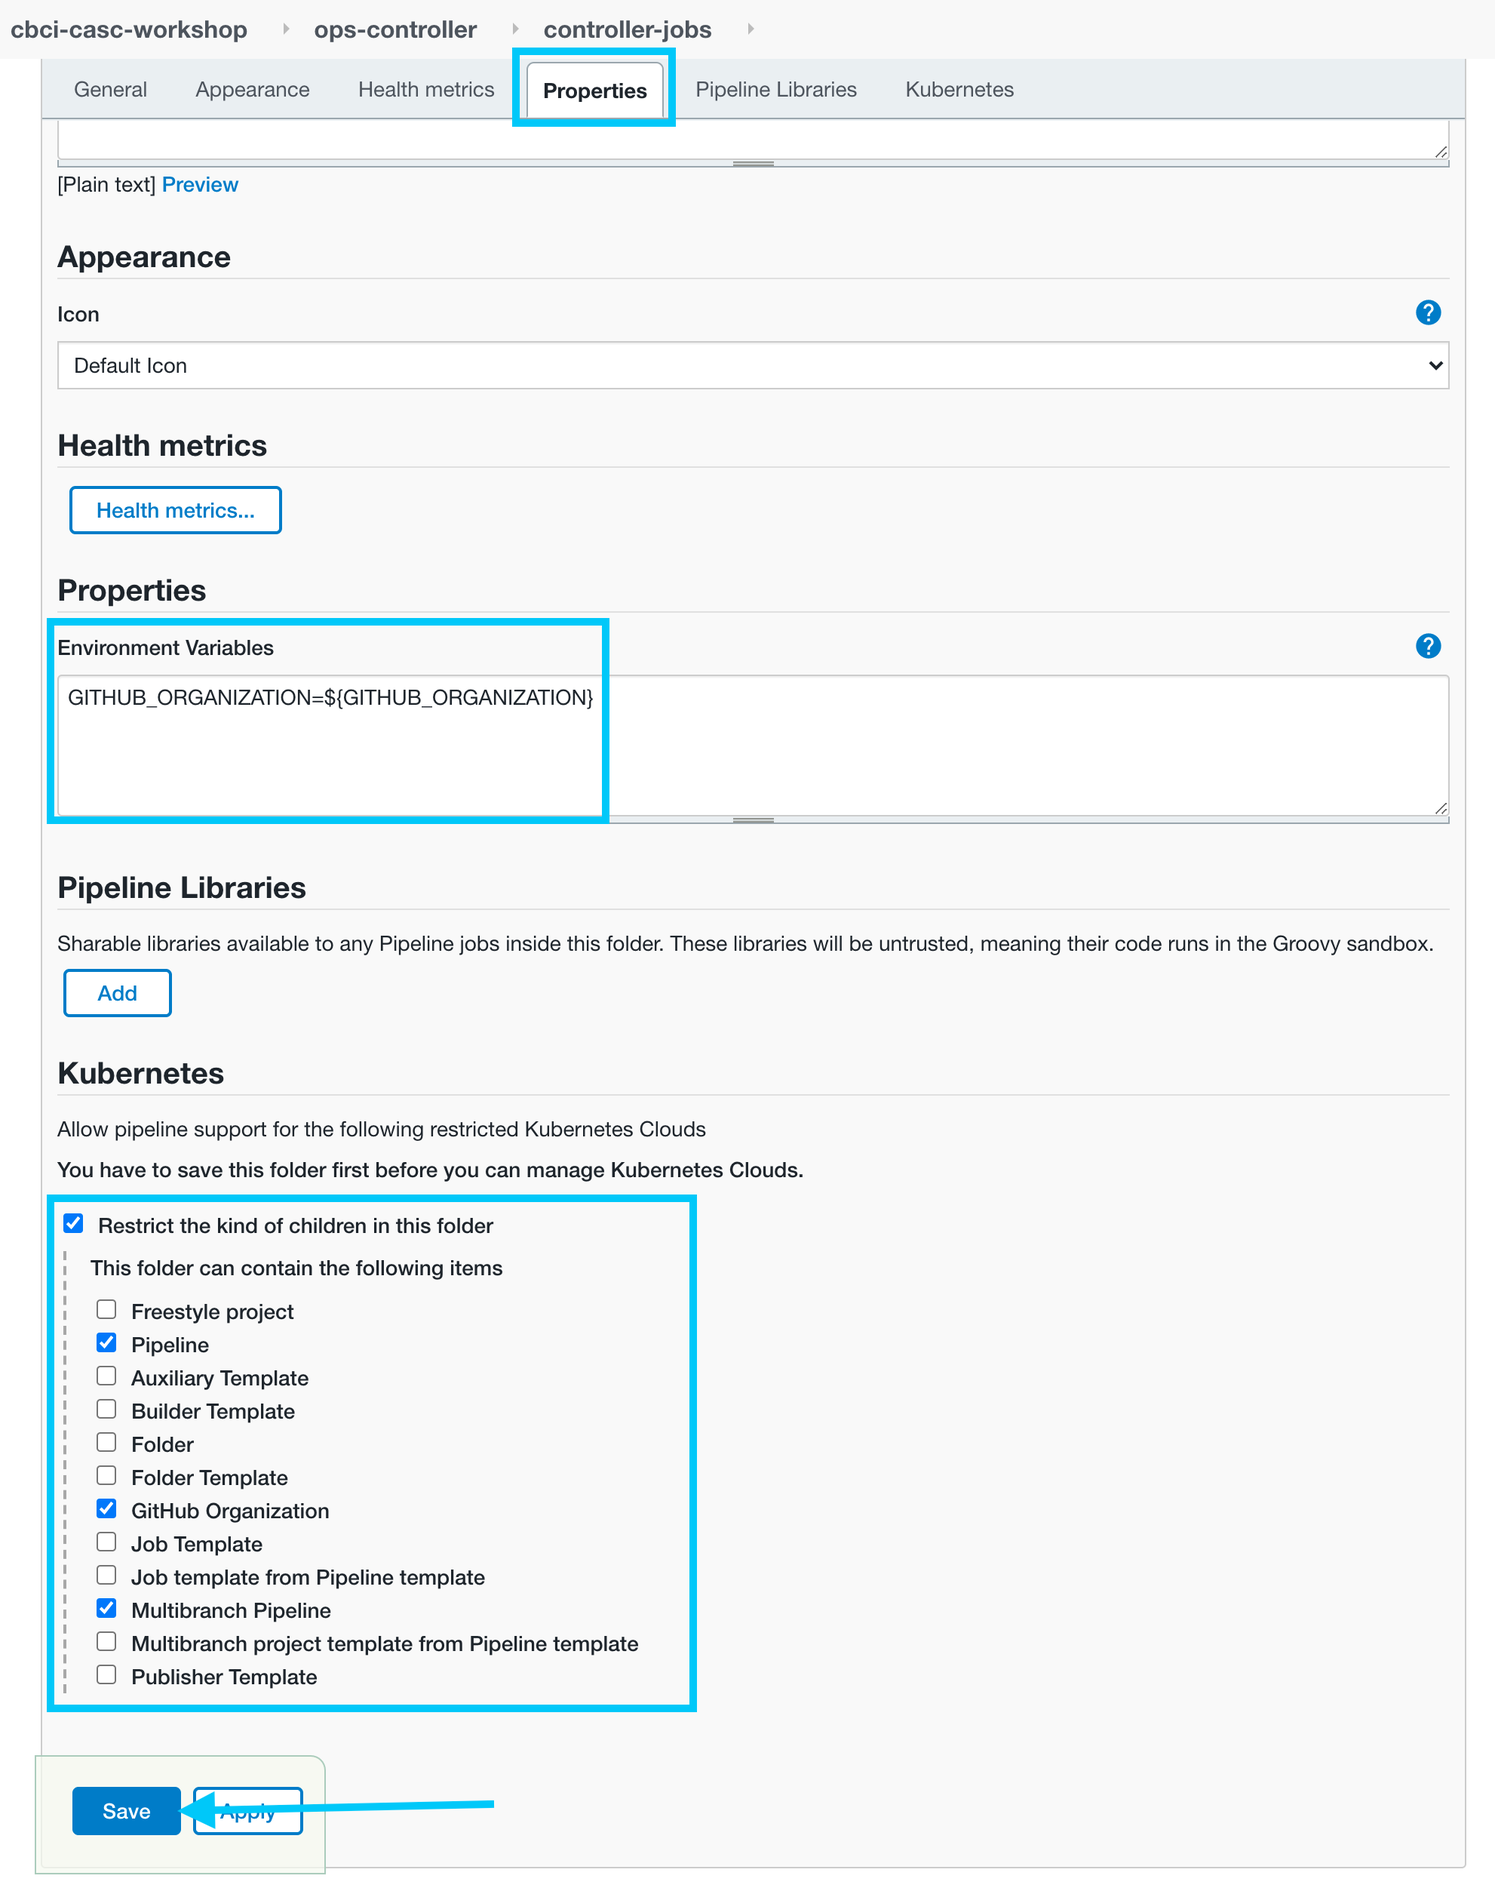
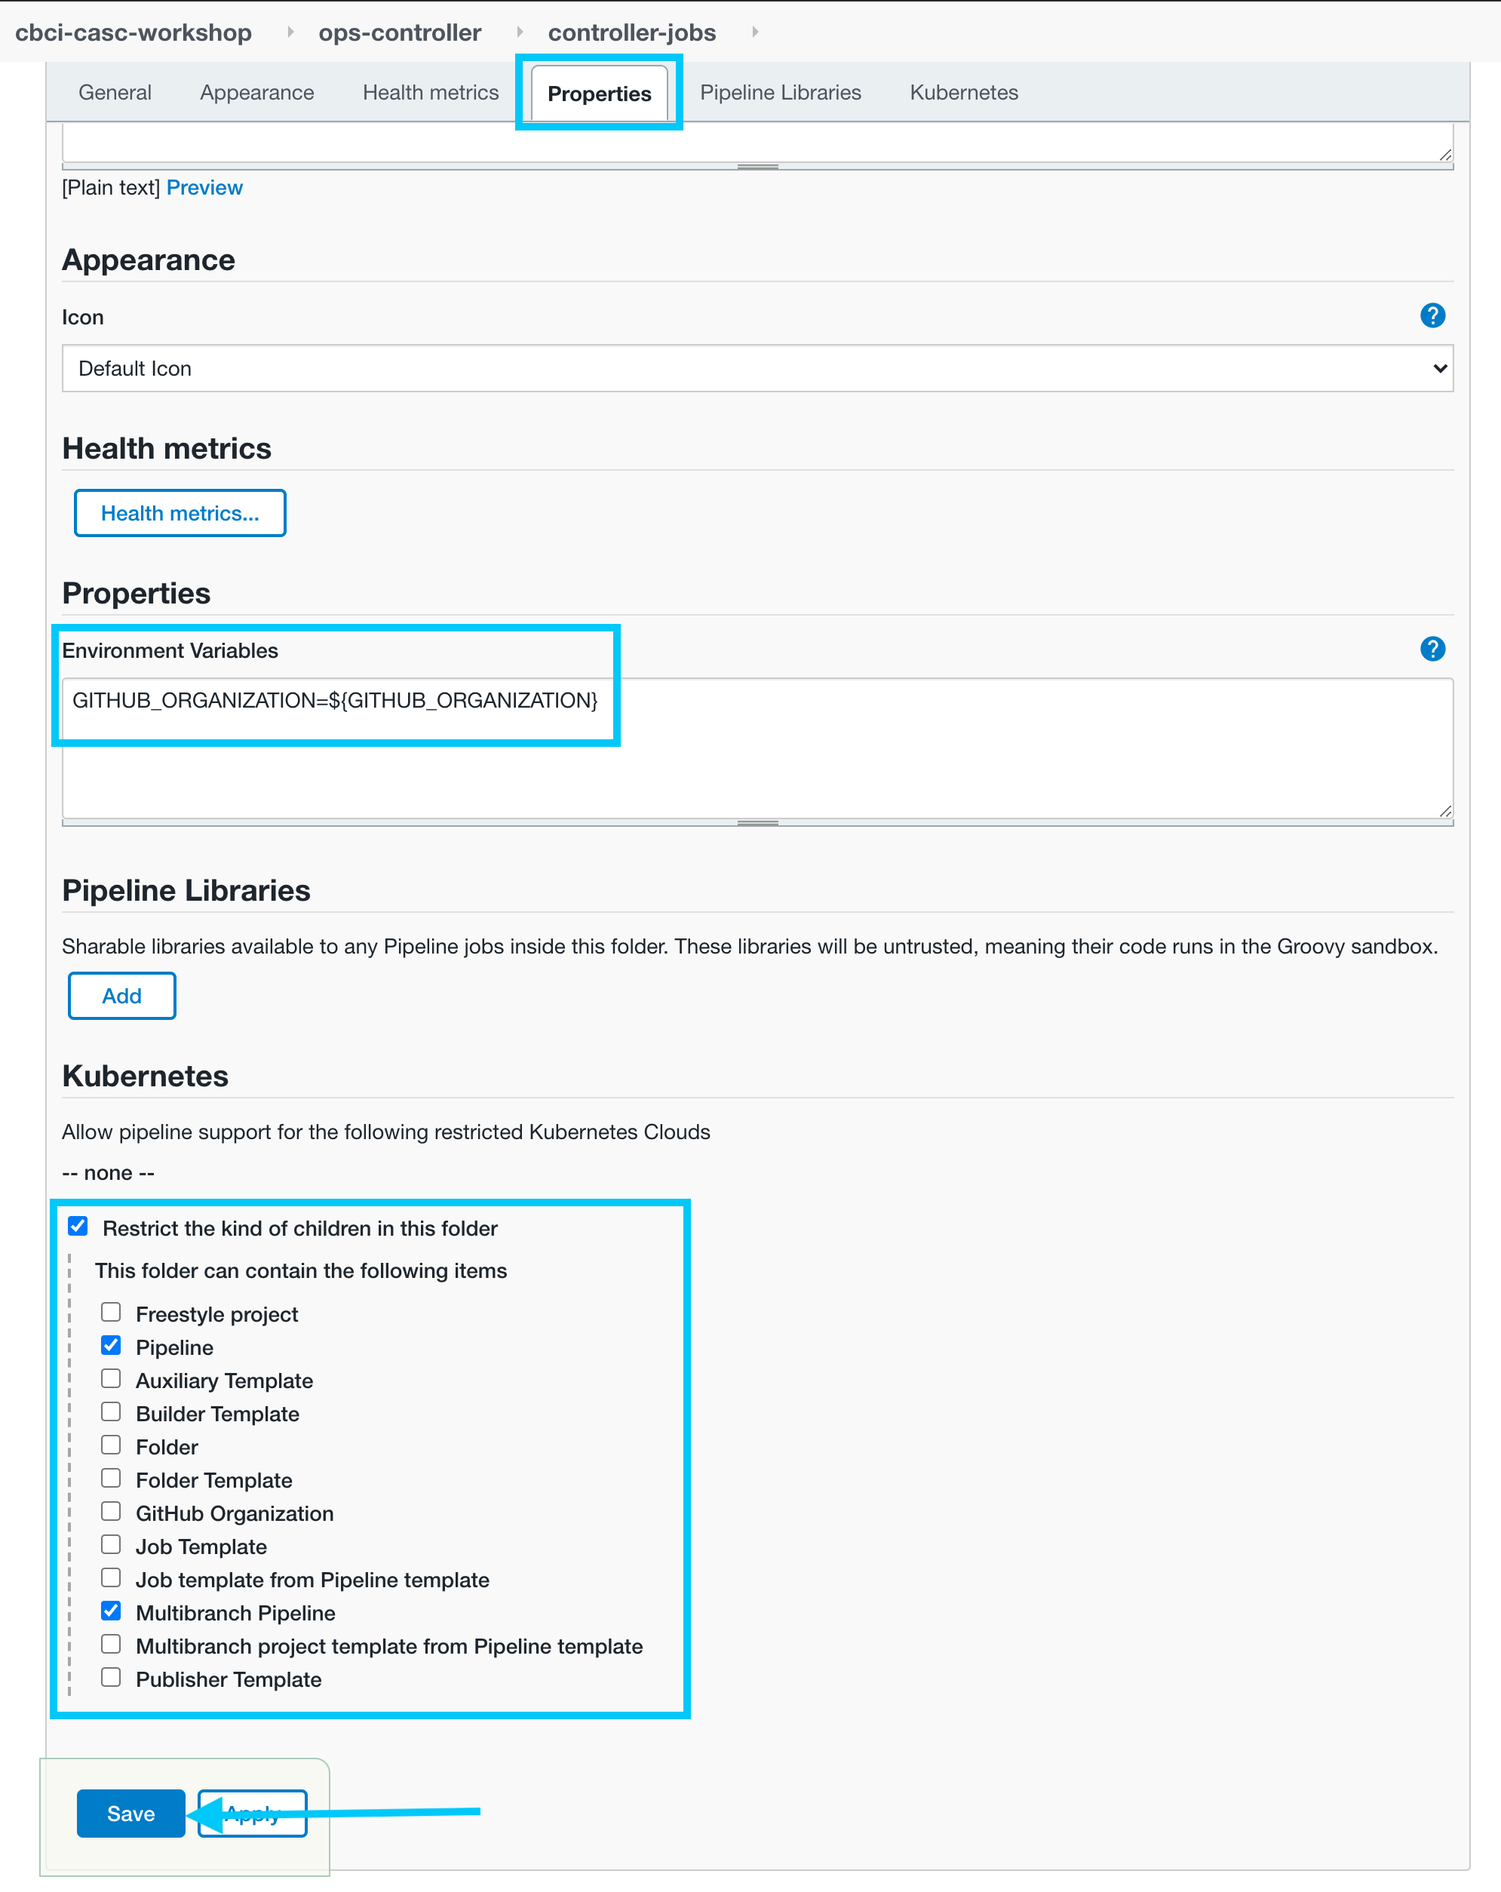
misc updates for casc workshop

diff --git a/labs/cloudbees-ci-casc/content/labs/managing-job-config.md b/labs/cloudbees-ci-casc/content/labs/managing-job-config.md
@@ -4,7 +4,7 @@ chapter: false
 weight: 4
 --- 
 
-In addition to folders, the CloudBees CI CasC provides support for managing the configuration of certain Jenkins job types to include:
+In addition to folders, the CloudBees CI CasC provides support for [managing the configuration of certain Jenkins job types](https://docs.cloudbees.com/docs/cloudbees-ci/latest/casc-controller/items#_supported_items_using_casc) (or items) to include:
 
 - Freestyle jobs
 - Pipeline jobs
@@ -12,4 +12,175 @@ In addition to folders, the CloudBees CI CasC provides support for managing the 
 - GitHub Organization folders
 - Bitbucket Team/Project folders
 
-In this lab we will export the configuration for the GitHub Organization Folder project you created in the previous lab and then add it to your configuration bundle.
+In this lab we will export the configuration for the GitHub Organization Folder project you created in the previous lab and then add it to your configuration bundle with some minor modifications to including removing redundant default fields and updating to only run for the `main` branch.
+
+## Adding Job Configuration to the Configuration Bundle
+
+1. Navigate back to the top-level of your Ops controller and you should see the new **controller-jobs** folder. Click on the **Manage Jenkins** link in the left menu. ![Folder created](folder-created.png?width=50pc) 
+2. On the **Manage Jenkins** page click on **CloudBees Configuration as Code bundle** under the **System Configuration** section. ![CloudBees CasC link](cloudbees-casc-link.png?width=50pc) 
+3. Next click on the *visualize* link for the `items.yaml` **Filename**. ![Items visualize link](items-visualize-link.png?width=50pc) 
+4. A new browser page will open in a new tab or window with the auto-generated `items.yaml` with content very similar to the following:
+
+```yaml
+removeStrategy:
+  rbac: SYNC
+  items: NONE
+items:
+- kind: folder
+  displayName: controller-jobs
+  name: controller-jobs
+  description: ''
+  items:
+  - orphanedItemStrategy:
+      defaultOrphanedItemStrategy:
+        pruneDeadBranches: true
+        daysToKeep: -1
+        numToKeep: -1
+    SCMSources:
+    - github:
+        traits:
+        - gitHubBranchDiscovery:
+            strategyId: 1
+        - gitHubPullRequestDiscovery:
+            strategyId: 1
+        - gitHubForkDiscovery:
+            trust:
+              gitHubTrustPermissions: {}
+            strategyId: 1
+        repoOwner: cbci-casc-workshop
+        credentialsId: cloudbees-ci-casc-workshop-github-app
+        id: org.jenkinsci.plugins.github_branch_source.GitHubSCMNavigator::https://api.github.com::cbci-casc-workshop::ops-controller
+        repository: ops-controller
+        configuredByUrl: false
+        repositoryUrl: https://github.com/cbci-casc-workshop/ops-controller
+    kind: organizationFolder
+    displayName: cbci-casc-workshop
+    name: cbci-casc-workshop
+    description: ''
+    navigators:
+    - github:
+        traits:
+        - gitHubBranchDiscovery:
+            strategyId: 1
+        - gitHubPullRequestDiscovery:
+            strategyId: 1
+        - gitHubForkDiscovery:
+            trust:
+              gitHubTrustPermissions: {}
+            strategyId: 1
+        repoOwner: cbci-casc-workshop
+        credentialsId: cloudbees-ci-casc-workshop-github-app
+    projectFactories:
+    - customMultiBranchProjectFactory:
+        factory:
+          customBranchProjectFactory:
+            marker: bundle.yaml
+            definition:
+              cpsScmFlowDefinition:
+                scriptPath: controller-casc-automation
+                scm:
+                  gitSCM:
+                    userRemoteConfigs:
+                    - userRemoteConfig:
+                        credentialsId: cloudbees-ci-casc-workshop-github-app
+                        url: https://github.com/cbci-casc-workshop/ops-controller.git
+                    branches:
+                    - branchSpec:
+                        name: '*/main'
+                lightweight: true
+    trigger:
+      periodicFolderTrigger:
+        interval: 1d
+    strategy:
+      allBranchesSame: {}
+    properties:
+    - organizationChildHealthMetricsProperty:
+        templates:
+        - worstChildHealthMetric:
+            recursive: true
+        - averageChildHealthMetric: {}
+        - jobStatusHealthMetric:
+            unstable: true
+            countVirginJobs: false
+            failure: true
+            success: true
+            unbuilt: true
+        - projectEnabledHealthMetric: {}
+    - organizationChildOrphanedItemsProperty:
+        strategy:
+          inherit: {}
+    - organizationChildTriggersProperty:
+        templates:
+        - periodicFolderTrigger:
+            interval: 1d
+    - {}
+    - kubernetesFolderProperty: {}
+    - noTriggerOrganizationFolderProperty:
+        branches: .*
+  properties:
+  - envVars:
+      vars:
+        GITHUB_ORGANIZATION: ${GITHUB_ORGANIZATION}
+  - kubernetesFolderProperty: {}
+  - itemRestrictions:
+      allowedTypes:
+      - org.jenkinsci.plugins.workflow.job.WorkflowJob
+      - jenkins.branch.OrganizationFolder
+      - org.jenkinsci.plugins.workflow.multibranch.WorkflowMultiBranchProject
+      - jenkins.branch.OrganizationFolder.org.jenkinsci.plugins.github_branch_source.GitHubSCMNavigator
+      filter: true
+```
+
+5. Rather than copy it as is, we have provided a minimized version that eliminates unneeded configuration and modifies the GitHub Organization Folder to only run for the `main` branch of a repository:
+
+```yaml
+removeStrategy:
+  rbac: SYNC
+  items: NONE
+items:
+- kind: folder
+  displayName: controller-jobs
+  name: controller-jobs
+  properties:
+  - envVars:
+      vars:
+        GITHUB_ORGANIZATION: ${GITHUB_ORGANIZATION}
+  - itemRestrictions:
+      allowedTypes:
+      - org.jenkinsci.plugins.workflow.job.WorkflowJob
+      - org.jenkinsci.plugins.workflow.multibranch.WorkflowMultiBranchProject
+      - jenkins.branch.OrganizationFolder.org.jenkinsci.plugins.github_branch_source.GitHubSCMNavigator
+      - jenkins.branch.OrganizationFolder
+      filter: true
+  items:
+  - kind: organizationFolder
+    name: cbci-casc-workshop
+    navigators:
+    - github:
+        traits:
+        - headWildcardFilter:
+            includes: main
+        repoOwner: cbci-casc-workshop
+        credentialsId: cloudbees-ci-casc-workshop-github-app
+    projectFactories:
+    - customMultiBranchProjectFactory:
+        factory:
+          customBranchProjectFactory:
+            marker: bundle.yaml
+            definition:
+              cpsScmFlowDefinition:
+                scriptPath: controller-casc-automation
+                scm:
+                  gitSCM:
+                    userRemoteConfigs:
+                    - userRemoteConfig:
+                        credentialsId: cloudbees-ci-casc-workshop-github-app
+                        url: https://github.com/cbci-casc-workshop/ops-controller.git
+                    branches:
+                    - branchSpec:
+                        name: '*/main'
+                lightweight: true
+```
+
+6. Copy the provided `items.yaml` and navigate to the top level of your copy of the `ops-controller` repository in your workshop GitHub Organization.
+7. 

diff --git a/labs/cloudbees-ci-casc/content/labs/advanced-bundle-composition.md b/labs/cloudbees-ci-casc/content/labs/advanced-bundle-composition.md
@@ -174,7 +174,11 @@ notificationConfiguration:
     - Enforcing the use of the CloudBees Assurance Plugins.
     - Enabling [controller hibernation](https://docs.cloudbees.com/docs/cloudbees-ci/latest/cloud-admin-guide/managing-masters#_hibernation_in_managed_masters) to reduce infrastructure costs - controllers will only run when they need to.
     - Enabling [Cross Team Collaboration](https://docs.cloudbees.com/docs/admin-resources/latest/pipelines/cross-team-collaboration) notifications to allow controllers to send and receive pipeline events.
->**NOTE:** In some cases we are including configuration that is enabled by default - like enabling the CloudBees SCM Reporting notifications. The reason for including such configuration is that when included, it cannot be overridden at the individual controller level as we will learn below.
+
+{{% notice note %}}
+In some cases we are including configuration that is enabled by default - like enabling the CloudBees SCM Reporting notifications. The reason for including such configuration is that when included, it cannot be overridden at the individual controller level as we will learn below.
+{{% /notice %}}
+
 4. Next, let's review the `plugins.yaml` that will provide a base set of plugins for all the controllers in our CloudBees CI cluster:
 ```yaml
 plugins:
@@ -273,8 +277,10 @@ items:
 23. On the **CloudBees Configuration as Code bundle** click on the **Bundle update** tab and you should see that there is a bundle update available. ![CasC bundle update](casc-bundle-update.png?width=50pc)
 24. Click on the **Reload Configuration** button and then on the next screen click the **Yes** button to apply the bundle update. ![CasC bundle apply](casc-bundle-apply.png?width=50pc)
 25. After your Ops Controller has finished restarting navigate back to the **CloudBees Configuration as Code bundle** configuration page and click on the **Original Bundle** tab. Notice that there are now three `jcasc` files: `jcasc/base.jenkins.yaml`, `jcasc/cbci-casc-workshop-ops-controller.credentials.yaml` and `jcasc/cbci-casc-workshop-ops-controller.jenkins.yaml`. CloudBees CI Configuration as Code (CasC) for Controllers automatically renames all JCasC files by prefixing them with the bundle id and placing them in a `jcasc` directory. However, in the case of the `plugins.yaml`, multiple files are merged into one. Also note that the `items` files is placed in an `items` folder and also prefixed with the bundle id. ![Original Bundle](original-bundle-base.png?width=50pc) 
+ 
 
->**NOTE:** Catalog file types, in this case the `plugin-catalog.yaml` file, are not merged and will be overridden by the last catalog file added. So if we hadn't removed the `catalog` entry from your Ops controller's `bundle.yaml` file (and not deleted the `plugin-catalog.yaml`) then it would have overridden the `plugin-catalog.yaml` provided by the `base` (parent) bundle. One way you could enforce only allowing the `catalog` to be defined at the parent level would be to add a pipeline `step` to the `controller-casc-automation` job that removes the `catalog` section from the controller's `bundle.yaml`. Here is an [example using yq version 4](https://mikefarah.gitbook.io/yq/operators/delete#delete-matching-entries):
+{{% notice tip %}}
+Catalog file types, in this case the `plugin-catalog.yaml` file, are not merged and will be overridden by the last catalog file added. So if we hadn't removed the `catalog` entry from your Ops controller's `bundle.yaml` file (and not deleted the `plugin-catalog.yaml`) then it would have overridden the `plugin-catalog.yaml` provided by the `base` (parent) bundle. One way you could enforce only allowing the `catalog` to be defined at the parent level would be to add a pipeline `step` to the `controller-casc-automation` job that removes the `catalog` section from the controller's `bundle.yaml`. Here is an [example using yq version 4](https://mikefarah.gitbook.io/yq/operators/delete#delete-matching-entries):
 ```groovy
 ...
 container('yq') {
@@ -282,3 +288,4 @@ container('yq') {
 }
 ...
 ```
+{{% /notice %}}

diff --git a/labs/cloudbees-ci-casc/content/labs/bundle-management.md b/labs/cloudbees-ci-casc/content/labs/bundle-management.md
@@ -6,7 +6,7 @@ weight: 3
 
 CloudBees CI configuration bundles are centrally managed and stored in the `jcasc-bundles-store` directory in the Operations Center Jenkins home directory. In order to make a bundle available for a controller or to update an existing bundle the bundle files must be copied to the `jcasc-bundles-store` directory.
 
-{{% notice note %}}
+{{% notice tip %}}
 While Operations Center simplifies the management of bundles, it is possible to configure a controller with a bundle without Operations Center using the `-Dcore.casc.config.bundle=/path/to/casc-bundle` Java system property.
 {{% /notice %}}
 
@@ -92,6 +92,6 @@ If you navigate to your GitHub `ops-controller` repository in your workshop GitH
 19. Click on the **Reload Configuration** button and then on the next screen click the **Yes** button to apply the bundle update. ![CasC bundle apply](casc-bundle-apply.png?width=50pc)
 20. After the updated configuration bundle is finished being applied return to the top level of your Ops controller and you will see that the **configuration-automation** folder has been added back. ![CasC bundle updated](casc-bundle-updated.png?width=50pc)
 21. Besides being an example of configuration bundle `items` configuration, another reason we created a folder is because it is considered a best practice to keep all of your Jenkins jobs organized with folders - some of the advantages of folders include fine grained access control and credentials, folder specific environment variables, the ability to restrict job types that can be created and easily moving or copying jobs across controllers or to other folders. Therefore we will move your GitHub Organization project into the **controller-automation** folder. To do so click on your GitHub Organization project and then click the **Move/Copy/Promote** link in the left menu. ![Move multibranch job](move-github-org-job.png?width=50pc)
-22. On the **Move/Copy/Promote** place your mouse cursor in the **Destination** select box next to **ops-controller**, select **controller-automation** from the drop down and then click the **Move** button. ![Select folder and move](select-folder-move.png?width=50pc)
-23. Once the move has completed successfully click on the **Close** button. ![Move close](move-close.png?width=50pc)
-
+ 22. On the **Move/Copy/Promote** place your mouse cursor in the **Destination** select box next to **ops-controller**, select **controller-automation** from the drop down and then click the **Move** button. ![Select folder and move](select-folder-move.png?width=50pc)
+ 23. Once the move has completed successfully click on the **Close** button. ![Move close](move-close.png?width=50pc)
+ 

diff --git a/labs/cloudbees-ci-casc/content/labs/bundle-composition.md b/labs/cloudbees-ci-casc/content/labs/bundle-composition.md
@@ -149,7 +149,7 @@ As you can see from the composition overview above, the YAML in the different co
 6. At the top level of your Ops controller, click on **Create a job** link.  ![Create a job](create-job-link.png?width=50pc) 
 7. On the item creation screen, enter ***controller-jobs*** as the name, select **Folder** as the type and then click the **OK** button. ![Create folder](create-folder.png?width=50pc) 
 8. On the next screen click on the **Properties** tab, then enter `GITHUB_ORGANIZATION=${GITHUB_ORGANIZATION}` in the **Environment Variables** text area, 
-9. Next, click on the **Restrict the kind of children in this folder**, then check the **Pipeline**, **GitHub Organization** and **Multibranch Pipeline** items; and then click the **Save** button. ![Configure folder](configure-folder.png?width=50pc) 
+9. Next, click on the **Restrict the kind of children in this folder**, then check the **Pipeline** and **Multibranch Pipeline** items; and then click the **Save** button. ![Configure folder](configure-folder.png?width=50pc) 
 10. Navigate back to the top-level of your Ops controller and you should see the new **controller-jobs** folder. Click on the **Manage Jenkins** link in the left menu. ![Folder created](folder-created.png?width=50pc) 
 11. On the **Manage Jenkins** page click on **CloudBees Configuration as Code bundle** under the **System Configuration** section. ![CloudBees CasC link](cloudbees-casc-link.png?width=50pc) 
 12. Next, on the **CloudBees Configuration as Code bundle** page under the **Current configuration** tab, click on the *visualize* link for the `plugin-catalog.yaml` **Filename**. A [plugin catalog](https://docs.cloudbees.com/docs/admin-resources/latest/plugin-management/configuring-plugin-catalogs) is used to include plugins that are not in the CloudBees Assurance Program (CAP); tested and used by your software delivery workloads. Since the **Pipeline Utility Steps** is not in CAP we must create a plugin catalog that includes that plugin so we may install it on a controller. ![Plugin Catalog visualize link](plugin-catalog-visualize-link.png?width=50pc) 
@@ -223,6 +223,7 @@ items:
       - org.jenkinsci.plugins.workflow.job.WorkflowJob
       - org.jenkinsci.plugins.workflow.multibranch.WorkflowMultiBranchProject
       - jenkins.branch.OrganizationFolder.org.jenkinsci.plugins.github_branch_source.GitHubSCMNavigator
+      - jenkins.branch.OrganizationFolder
       filter: true
 ```
 20. Copy the contents of the auto-generated `items.yaml` and then navigate to the top level of your copy of the `ops-controller` repository in your workshop GitHub Organization.
